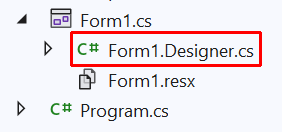
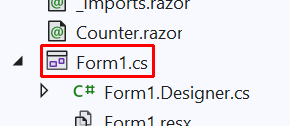
Updates

diff --git a/aspnetcore/blazor/hybrid/tutorials/windows-forms.md b/aspnetcore/blazor/hybrid/tutorials/windows-forms.md
@@ -5,7 +5,7 @@ description: Build a Windows Forms Blazor app step-by-step.
 monikerRange: '>= aspnetcore-6.0'
 ms.author: riande
 ms.custom: mvc
-ms.date: 02/14/2022
+ms.date: 02/15/2022
 no-loc: [Home, Privacy, Kestrel, appsettings.json, "ASP.NET Core Identity", cookie, Cookie, Blazor, "Blazor Server", "Blazor WebAssembly", "Identity", "Let's Encrypt", Razor, SignalR]
 uid: blazor/hybrid/tutorials/windows-forms
 ---
@@ -28,27 +28,6 @@ If the **.NET desktop development** workload isn't installed, use the Visual Stu
 
 :::image type="content" source="windows-forms/_static/install-workload.png" alt-text="Visual Studio installer .NET desktop development workload selection.":::
 
-## Create Blazor projects to obtain assets
-
-Using the .NET CLI, create a pair of Blazor projects. These donor Blazor projects are used later in the tutorial to supply assets to the Windows Forms project. Both donor Blazor projects are created with the name `WinFormsBlazor`. Later in the tutorial, the Windows Forms project is also created with the project name, `WinFormsBlazor`. By using the same name for the donor projects and the Windows Forms project, the namespaces match among the projects, which makes it possible to import donor assets into the Windows Forms project without the need to update namespaces.
-
-Create two folders to hold Blazor projects for donating assets to the Windows Forms project:
-
-* `BlazorServerDonor`
-* `BlazorWebAssemblyDonor`
-
-In a command shell open to the **`BlazorServerDonor` folder**, execute the following command. The command creates a folder named `WinFormsBlazor` with the `-n|--name` option and provides the project with the same project name:
-
-```dotnetcli
-dotnet new blazorserver -n WinFormsBlazor
-```
-
-In a command shell open to the **`BlazorWebAssemblyDonor` folder**, execute the following command. The command creates a folder named `WinFormsBlazor` with the `-n|--name` option and provides the project with the same project name:
-
-```dotnetcli
-dotnet new blazorwasm -o WinFormsBlazor
-```
-
 ## Create a Windows Forms Blazor project
 
 Start Visual Studio 2022 Preview. Select **Create a new project**.
@@ -63,153 +42,175 @@ In the **Configure your new project** dialog, set the **Project name** to **`Win
 
 In the **Additional information** dialog, select the framework version, which must be .NET 6.0 or later. Select the **Create** button.
 
+Use [NuGet Package Manager](/nuget/consume-packages/install-use-packages-visual-studio) to install the [`Microsoft.AspNetCore.Components.WebView.WindowsForms`](https://nuget.org/packages/Microsoft.AspNetCore.Components.WebView.WindowsForms) NuGet package.
+
 In **Solution Explorer**, right-click the project's name, `WinFormsBlazor` and select **Edit Project File** to open the project file (`WinFormsBlazor.csproj`).
 
-Make the following changes to the project file:
+At the top of the project file, change the SDK to `Microsoft.NET.Sdk.Razor`:
 
-* Change the SDK to `Microsoft.NET.Sdk.Razor`:
+```xml
+<Project Sdk="Microsoft.NET.Sdk.Razor">
+```
 
-  ```xml
-  <Project Sdk="Microsoft.NET.Sdk.Razor">
-  ```
+Add the following [MSBuild `Content` item](/visualstudio/msbuild/common-msbuild-project-items#content) to the project file, which copies the contents of the `wwwroot` folder to the output directory without compiling the assets in the folder:
 
-* Add the following configuration inside of the closing `</Project>` tag. 
+```xml
+<ItemGroup>
+  <Content Update="wwwroot\**" CopyToOutputDirectory="PreserveNewest" />
+</ItemGroup>
+```
 
-  ```xml
-  <ItemGroup>
-    <PackageReference Include="Microsoft.AspNetCore.Components.WebView.WindowsForms" Version="6.0.200-preview.12.2441" />
-  </ItemGroup>
+Save the changes to the project file (`WinFormsBlazor.csproj`).
 
-  <ItemGroup>
-    <Content Update="wwwroot\**">
-      <CopyToOutputDirectory>PreserveNewest</CopyToOutputDirectory>
-    </Content>
-  </ItemGroup>
-  ```
-
-Add a `Pages` folder to the Windows Forms project.
-
-Add the following imports file to the root of the Windows Forms project.
+Add an `_Imports.razor` file to the root of the project with an [`@using`](xref:mvc/views/razor#using) directive for <xref:Microsoft.AspNetCore.Components.Web?displayProperty=fullName>.
 
 `_Imports.razor`:
 
 ```razor
-@using System.Net.Http
-@using System.Net.Http.Json
-@using Microsoft.AspNetCore.Components.Forms
-@using Microsoft.AspNetCore.Components.Routing
 @using Microsoft.AspNetCore.Components.Web
-@using Microsoft.AspNetCore.Components.Web.Virtualization
-@using Microsoft.JSInterop
-@using WinFormsBlazor
-@using WinFormsBlazor.Data
-@using WinFormsBlazor.Shared
 ```
 
-From the `BlazorWebAssemblyDonor` folder project, import the following folders into the root of the Windows Forms project:
+Add a `wwwroot` folder to the project.
 
-* `Shared`
-* `wwwroot`
+Add an `index.html` file to the `wwwroot` folder with the following markup.
 
-In the Windows Forms project, delete the `wwwroot/sample-data` folder, which isn't used.
-
-Open the `wwwroot/index.html` file in the Windows Forms project and change the Blazor script to the following:
+`wwwroot\index.html`:
 
 ```html
-<script src="_framework/blazor.webview.js"></script>
+<!DOCTYPE html>
+<html lang="en">
+<head>
+    <meta charset="utf-8" />
+    <meta name="viewport" content="width=device-width, initial-scale=1.0" />
+    <title>WinFormsBlazor</title>
+    <base href="/" />
+    <link href="css/app.css" rel="stylesheet" />
+    <link href="WinFormsApp1.styles.css" rel="stylesheet" />
+</head>
+
+<body>
+
+    <div id="app">Loading...</div>
+
+    <div id="blazor-error-ui">
+        An unhandled error has occurred.
+        <a href="" class="reload">Reload</a>
+        <a class="dismiss">🗙</a>
+    </div>
+
+    <script src="_framework/blazor.webview.js"></script>
+
+</body>
+
+</html>
 ```
 
-From the `BlazorServerDonor` folder project:
+Inside the `wwwroot` folder, create a `css` folder to hold stylesheets.
 
-* Import the `Data` folder into the root of the Windows Forms project.
-* From the donor project's `Pages` folder, import the following components into the Windows Forms project's `Pages` folder:
-  * `Counter.razor`
-  * `FetchData.razor`
-  * `Index.razor`
+Add an `app.css` stylesheet to the `wwwroot/css` folder with the following content.
 
-Add the following `Main` component to the Windows Forms project's `Pages` folder.
+`wwwroot/css/app.css`:
 
-`Pages/Main.razor`:
+```css
+html, body {
+    font-family: 'Helvetica Neue', Helvetica, Arial, sans-serif;
+}
+
+.valid.modified:not([type=checkbox]) {
+    outline: 1px solid #26b050;
+}
+
+.invalid {
+    outline: 1px solid red;
+}
+
+.validation-message {
+    color: red;
+}
+
+#blazor-error-ui {
+    background: lightyellow;
+    bottom: 0;
+    box-shadow: 0 -1px 2px rgba(0, 0, 0, 0.2);
+    display: none;
+    left: 0;
+    padding: 0.6rem 1.25rem 0.7rem 1.25rem;
+    position: fixed;
+    width: 100%;
+    z-index: 1000;
+}
+
+    #blazor-error-ui .dismiss {
+        cursor: pointer;
+        position: absolute;
+        right: 0.75rem;
+        top: 0.5rem;
+    }
+```
+
+Add the following `Counter` component to the root of the project, which is the default `Counter` component found in Blazor project templates.
+
+`Counter.razor`:
 
 ```razor
-<Router AppAssembly="@typeof(Program).Assembly" PreferExactMatches="@true">
-    <Found Context="routeData">
-        <RouteView RouteData="@routeData" DefaultLayout="@typeof(MainLayout)" />
-    </Found>
-    <NotFound>
-        <LayoutView Layout="@typeof(MainLayout)">
-            <p>Sorry, there's nothing at this address.</p>
-        </LayoutView>
-    </NotFound>
-</Router>
-```
+<h1>Counter</h1>
 
-Open the `Form1.Designer.cs` file from **Solution Explorer**:
+<p>Current count: @currentCount</p>
 
-:::image type="content" source="windows-forms/_static/solution-explorer-1.png" alt-text="The Form1.Designer.cs file in Solution Explorer.":::
+<button class="btn btn-primary" @onclick="IncrementCount">Click me</button>
 
-Replace the contents of the file with the following code:
+@code {
+    private int currentCount = 0;
 
-```csharp
-namespace WinFormsBlazor
-{
-    partial class Form1
+    private void IncrementCount()
     {
-        /// <summary>
-        ///  Required designer variable.
-        /// </summary>
-        private System.ComponentModel.IContainer components = null;
-
-        /// <summary>
-        ///  Clean up any resources being used.
-        /// </summary>
-        /// <param name="disposing">true if managed resources should be disposed; otherwise, false.</param>
-        protected override void Dispose(bool disposing)
-        {
-            if (disposing && (components != null))
-            {
-                components.Dispose();
-            }
-            base.Dispose(disposing);
-        }
-
-        #region Windows Form Designer generated code
-
-        /// <summary>
-        ///  Required method for Designer support - do not modify
-        ///  the contents of this method with the code editor.
-        /// </summary>
-        private void InitializeComponent()
-        {
-            this.SuspendLayout();
-            // 
-            // Form1
-            // 
-            this.AutoScaleDimensions = new System.Drawing.SizeF(7F, 15F);
-            this.AutoScaleMode = System.Windows.Forms.AutoScaleMode.Font;
-            this.ClientSize = new System.Drawing.Size(800, 450);
-            this.Name = "Form1";
-            this.Text = "Form1";
-            this.ResumeLayout(false);
-
-        }
-
-        #endregion
+        currentCount++;
     }
 }
 ```
 
-In **Solution Explorer**, right-click the `Form1.cs` file and select **View Code**:
+In **Solution Explorer**, double-click on the `Form1.cs` file to open the designer:
 
-:::image type="content" source="windows-forms/_static/solution-explorer-2.png" alt-text="The Form1.cs file in Solution Explorer.":::
+:::image type="content" source="windows-forms/_static/solution-explorer-1.png" alt-text="The Form1.cs file in Solution Explorer.":::
 
-Replace the contents of the file with the following code:
+Open the **Toolbox** by either selecting the **Toolbox** button along the left edge of the Visual Studio window or selecting the **View** > **Toolbox** menu item.
+
+Locate the `BlazorWebView` control under `Microsoft.AspNetCore.Components.WebView.WindowsForms`:
+
+:::image type="content" source="windows-forms/_static/toolbox.png" alt-text="BlazorWebView in the Toolbox.":::
+
+Drag `BlazorWebView` into the `Form1` designer:
+
+:::image type="content" source="windows-forms/_static/form1.png" alt-text="BlazorWebView in the Form1 designer.":::
+
+In `Form1`, select the `BlazorWebView` item. In the `BlazorWebView` **Properties**, change its **Dock** value to **Fill**:
+
+:::image type="content" source="windows-forms/_static/properties.png" alt-text="BlazorWebView properties with Dock set to Fill.":::
+
+In the `Form1` designer, right-click `Form1` and select **View Code**.
+
+Add namespaces for `Microsoft.AspNetCore.Components.WebView.WindowsForms` and <xref:Microsoft.Extensions.DependencyInjection?displayProperty=fullName> to the top of the `Form1.cs` file:
 
 ```csharp
 using Microsoft.AspNetCore.Components.WebView.WindowsForms;
 using Microsoft.Extensions.DependencyInjection;
-using WinFormsBlazor.Data;
-using WinFormsBlazor.Pages;
+```
+
+Inside the `Form1` constructor, below the `InitializeComponent()` method call, add the following code:
+
+```csharp
+var services = new ServiceCollection();
+services.AddBlazorWebView();
+blazorWebView1.HostPage = "wwwroot\\index.html";
+blazorWebView1.Services = services.BuildServiceProvider();
+blazorWebView1.RootComponents.Add<Counter>("#app");
+```
+
+The final, complete C# code of `Form1.cs`:
+
+```csharp
+using Microsoft.AspNetCore.Components.WebView.WindowsForms;
+using Microsoft.Extensions.DependencyInjection;
 
 namespace WinFormsBlazor
 {
@@ -219,31 +220,14 @@ namespace WinFormsBlazor
         {
             InitializeComponent();
 
-            var serviceCollection = new ServiceCollection();
-            serviceCollection.AddBlazorWebView();
-            serviceCollection.AddSingleton<WeatherForecastService>();
-
-            var blazor = new BlazorWebView()
-            {
-                Dock = DockStyle.Fill,
-                HostPage = "wwwroot/index.html",
-                Services = serviceCollection.BuildServiceProvider(),
-            };
-            blazor.RootComponents.Add<Main>("#app");
-            Controls.Add(blazor);
+            var services = new ServiceCollection();
+            services.AddBlazorWebView();
+            blazorWebView1.HostPage = "wwwroot\\index.html";
+            blazorWebView1.Services = services.BuildServiceProvider();
+            blazorWebView1.RootComponents.Add<Counter>("#app");
         }
-
     }
 }
-```
-
-In the `Program.cs` file, replace the code in the `Main` method with the following:
-
-```csharp
-Application.SetHighDpiMode(HighDpiMode.SystemAware);
-Application.EnableVisualStyles();
-Application.SetCompatibleTextRenderingDefault(false);
-Application.Run(new Form1());
 ```
 
 ## Run the app
